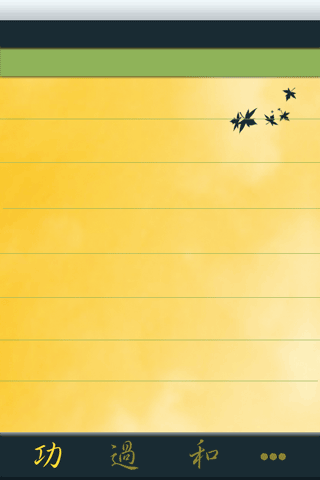
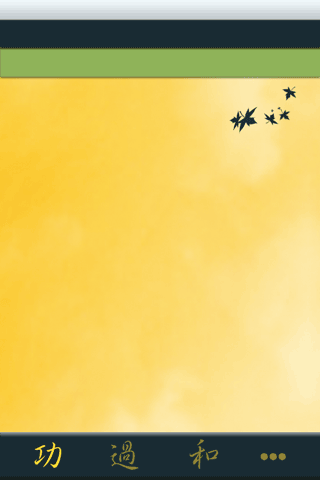
tweak text font and color for Behavior page, refresh default page

diff --git a/DailyReview/src/BehaviorTableViewCell.m b/DailyReview/src/BehaviorTableViewCell.m
@@ -6,9 +6,9 @@
   return [[self alloc] initWithStyle:UITableViewCellStyleValue1 reuseIdentifier:NSStringFromClass([self class])];
 }
 
-- (void)drawCellBorder {
-  UIView *border = [[UIView alloc] initWithFrame:CGRectMake(0, 43.5, 320, 0.5)];
-  border.backgroundColor = [UIColor colorWithRed:.541 green:.706 blue:.376 alpha:1];
+- (void)drawCellKeyline {
+  UIView *border = [[UIView alloc] initWithFrame:CGRectMake(0, 43, SCREEN_WIDTH, 0.5)];
+  border.backgroundColor = [UIColor colorWithRed:.561 green:.698 blue:.349 alpha:1];
   [self addSubview:border];
 }
 
@@ -17,9 +17,12 @@
   if (self) {
     self.selectionStyle = UITableViewCellSelectionStyleNone;
     self.textLabel.backgroundColor = [UIColor clearColor];
+    self.textLabel.textColor = [UIColor colorWithRed:.102 green:.169 blue:.2 alpha:1];
     self.detailTextLabel.backgroundColor = [UIColor clearColor];
+    self.detailTextLabel.textColor = [UIColor colorWithRed:.243 green:0 blue:0 alpha:1];
+    self.detailTextLabel.font = [UIFont boldSystemFontOfSize:20];
     
-    [self drawCellBorder];
+    [self drawCellKeyline];
   }
   return self;
 }

diff --git a/DailyReview/src/BehaviorSectionHeaderView.m b/DailyReview/src/BehaviorSectionHeaderView.m
@@ -27,9 +27,9 @@
     UILabel *label = [[UILabel alloc] initWithFrame:self.frame];
     label.left = 10;
     label.text = title;
-    label.textColor = [UIColor blackColor];
+    label.font = [UIFont boldSystemFontOfSize:16];
+    label.textColor = [UIColor colorWithRed:.243 green:0 blue:0 alpha:1];
     label.backgroundColor = [UIColor clearColor];
-    label.userInteractionEnabled = YES;
     [self addSubview:label];
   }
   return self;

diff --git a/DailyReview/src/ScoreView.m b/DailyReview/src/ScoreView.m
@@ -20,9 +20,10 @@
 
 - (UILabel *)createScoreLabel {
   UILabel *label = [[UILabel alloc] initWithFrame:self.frame];
+  label.left = 10;
   label.backgroundColor = [UIColor clearColor];
-  label.textColor = [UIColor whiteColor];
-  label.font = [UIFont systemFontOfSize:15];
+  label.textColor = [UIColor colorWithRed:1 green:.851 blue:.2 alpha:1];
+  label.font = [UIFont systemFontOfSize:14.5];
   return label;
 }
 

diff --git a/DailyReview/src/BehaviorTableView.m b/DailyReview/src/BehaviorTableView.m
@@ -19,7 +19,6 @@
 
 - (void)layoutSubviews {
   [self sendSubviewToBack:backgroundView];  
-  //TODO: why not 30, for there is some px about shadow, please refactor this with BehaviorSectionHeaderView magic number 30.
   CGFloat sectionHeight = 29;
   CGFloat contentOffsetY = self.contentOffset.y;
   if (contentOffsetY < 0) {
